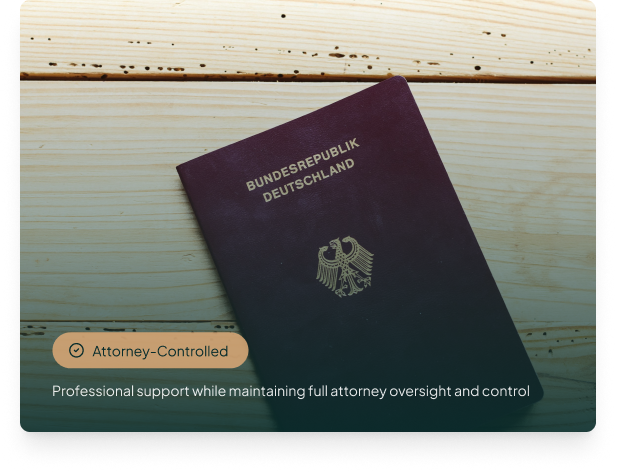
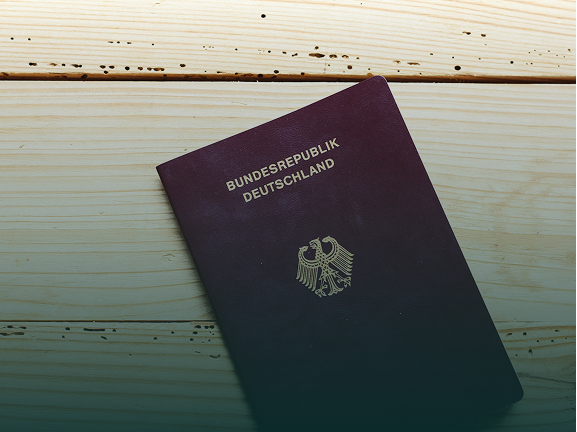
rewrwe

diff --git a/src/components/pages/Immigration.tsx b/src/components/pages/Immigration.tsx
@@ -1,6 +1,6 @@
 import "../../styles/Immigration.css";
 import "../../styles/HeroSection.css";
-import im from "../../assets/Support2.png";
+import im from "../../assets/Service1.png";
 const Immigration = () => {
   return (
     <section className="imm-support-section">
